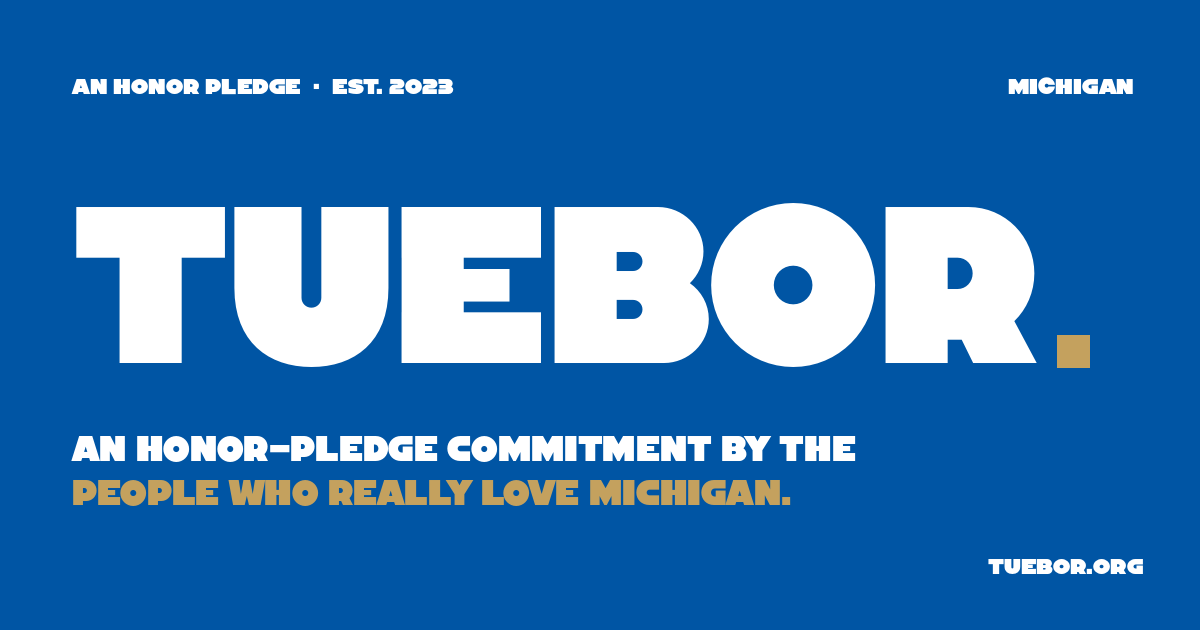
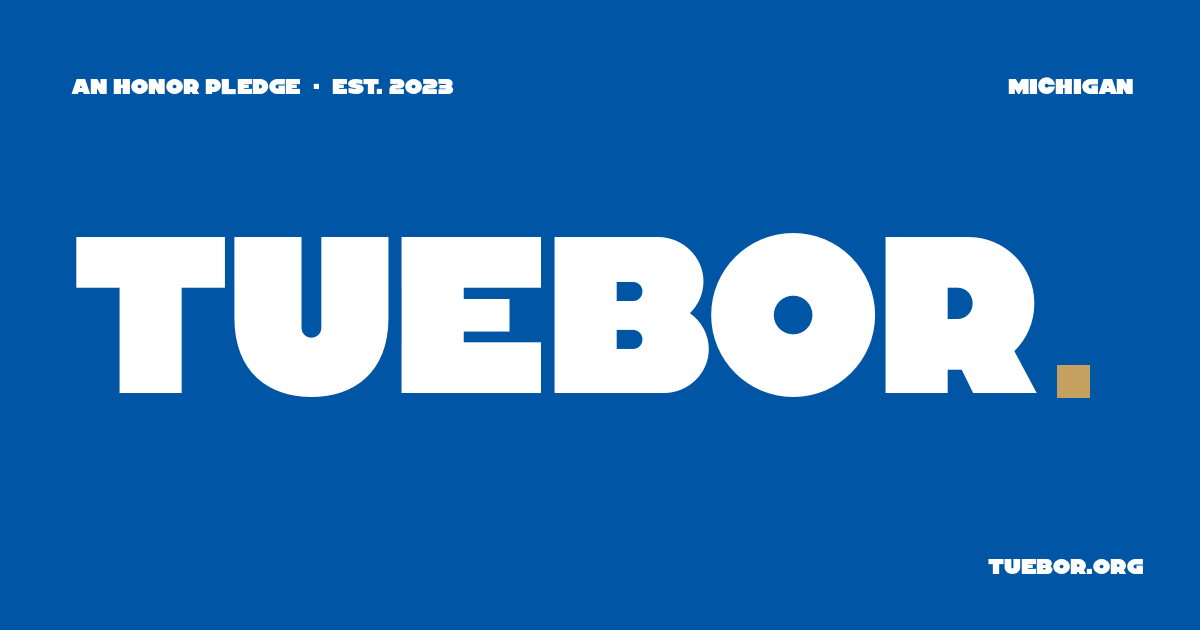
OG image: drop tagline (dup with unfurl caption)

diff --git a/assets/images/_ogimage.py b/assets/images/_ogimage.py
@@ -38,9 +38,9 @@ def make():
     tw = bbox[2] - bbox[0]
     th = bbox[3] - bbox[1]
 
-    # Left-aligned, vertically biased slightly above center for visual balance.
+    # Left-aligned, vertically centered now that the tagline is gone.
     x = PADDING
-    y = (H - th) // 2 - 30 - bbox[1]
+    y = (H - th) // 2 - bbox[1]
     draw.text((x, y), wordmark, font=font_main, fill=WHITE)
 
     # --- Tan accent square "period" to match the hero ---
@@ -54,15 +54,6 @@ def make():
     font_mono = ImageFont.truetype(str(FONT_PATH), 22)
     draw.text((PADDING, PADDING), "AN HONOR PLEDGE  ·  EST. 2023", font=font_mono, fill=(255, 255, 255, 178))
     draw.text((W - PADDING - 120, PADDING), "MICHIGAN", font=font_mono, fill=(255, 255, 255, 178))
-
-    # --- Tagline: below wordmark ---
-    font_tag = ImageFont.truetype(str(FONT_PATH), 34)
-    tag_y = y + bbox[1] + th + 60
-    # Two-line tagline — the tan parenthetical keeps continuity with the site.
-    draw.text((PADDING, tag_y), "An honor-pledge commitment by the",
-              font=font_tag, fill=WHITE)
-    draw.text((PADDING, tag_y + 44), "people who really love Michigan.",
-              font=font_tag, fill=TAN)
 
     # --- URL bottom-right ---
     font_url = ImageFont.truetype(str(FONT_PATH), 22)
